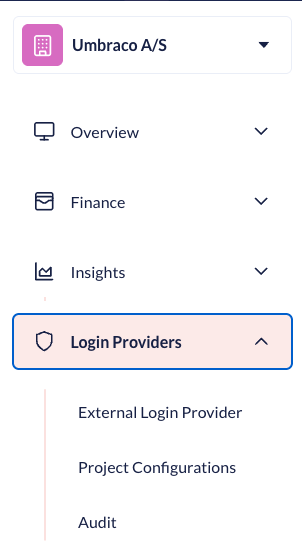
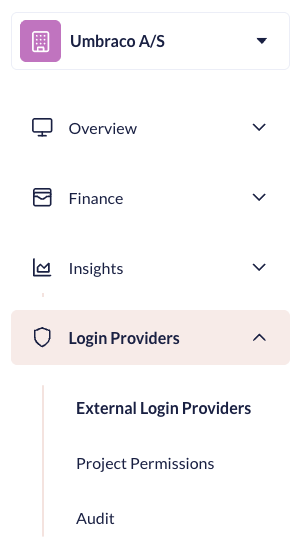
Rename Project Configuration to Project Permissions

diff --git a/umbraco-cloud/begin-your-cloud-journey/the-cloud-portal/login-providers/README.md b/umbraco-cloud/begin-your-cloud-journey/the-cloud-portal/login-providers/README.md
@@ -14,13 +14,12 @@ This is exclusively for Cloud Portal access and access to Project features only 
 ## External Login Providers
 
 {% hint style="info" %}
-The Organization Areas is only available for user logged in with Umbraco Id. Additionally the Login Providers Section can only be accessed by user with Admin rights to the Organization.
+The Organization Areas is only available for user logged in with Umbraco Id. Additionally the Login Providers Section can only be accessed by user who has Admin rights to the Organization.
 {% endhint %}
 
-This guide shows you how to set up and configure external login providers for your Cloud projects. It includes the following steps:
+This guide shows you how to set up and configure external login providers for the Cloud Portal, and configure related Project Permissions. It includes the following steps:
 
 - [Prepare your Login Provider](#prepare-your-login-provider)
-
 - [Register the Login Provider in Cloud Portal](#register-the-login-provider-in-cloud-portal)
 
 ### Prepare your Login Provider
@@ -187,19 +186,19 @@ A common scenario for using a special metadata address is when working with Entr
 
 **User Mapping Claim Name**
 
-Your provider may assign users to specific roles (For example: Admin, Editor, Viewer).<br><br>The <strong>User Group Claim Name</strong> is the field in the authentication token (claim) that identifies these roles. The system reads this claim to determine a user’s permissions.
+Your provider may assign users to specific roles (For example: Admin, Editor, Viewer).<br><br>The <strong>User Mapping Claim Name</strong> is the field in the authentication token (claim) that identifies these roles. The system reads this claim to determine a user’s permissions.
 
-Example: If your provider sends roles in a claim named <code>user_roles</code>, you would set the <strong>User Group Claim Name</strong> to <code>user_roles</code> so the system can properly recognize user permissions.
+Example: If your provider sends roles in a claim named <code>user_roles</code>, you set the <strong>User Mapping Claim Name</strong> to <code>user_roles</code> so the system can properly recognize user permissions.
 
 
 
-## Project Configurations
+## Project Permissions
 
-Here you will setup access to Project in the Portal while signed in with your Login Provider.
+Here you will setup access to Projects in the Portal while signed in with your Login Provider.
 
-You will need to add a Project Configuration per Project and per Login Provider. It is not required to add Project Configurations to all project. Projects without a Project Configuration tied to a Login Provider will not be shown to user logged in with that particular Login Provider.  
+You will need to add a Project Permission model per Project and per Login Provider. It is not required to add Project Permissions to all project. Projects without a Project Permissions tied to a Login Provider will not be shown to user logged in with that particular Login Provider.  
 
-When setting up a Project Configuration first select a Project in the left side of the screen. Next click on "+ Add" on the Login Provider you want to add a Project Configuration for.
+When setting up a Project Permission first select a Project in the left side of the screen. Next click on "+ Add" on the Login Provider you want to add a Project Permissions for.
 
 The modal has the following fields:
 - Default Access Level (required)
@@ -246,5 +245,5 @@ We are listing the following types of audit:
 |---|---|---|
 | User Sign-ins | - | See information about Project Permissions evaluated at the Sign-in. |
 | External Login Providers | Added and Updated | Entries includes the changed properties. The Client Secret is always redacted. |
-| Project Configuration | Added, Updated and Deleted | Shows information on the changed properties and stored Role mapping options |
+| Project Permission | Added, Updated and Deleted | Shows information on the changed properties and stored Role mapping options |
 

diff --git a/umbraco-cloud/begin-your-cloud-journey/the-cloud-portal/organizations.md b/umbraco-cloud/begin-your-cloud-journey/the-cloud-portal/organizations.md
@@ -114,16 +114,17 @@ In the **Payment History** section, you can see the payment history for your org
 
 ### Sustainability
 
+The Sustainability Dashboard is designed to help users monitor and improve the environmental impact of their websites on Umbraco Cloud. For more information, see the [Sustainability Dashboard](../../optimize-and-maintain-your-site/monitor-and-troubleshoot/sustainability-dashboard.md) article.
+
+## Login Providers
+
 {% hint style="info" %}
 This is a Beta feature and currently only open to a few early testers. If you want to help test the feature, get in touch somehow [TODO: describe how]...
 {% endhint %}
 
-The Sustainability Dashboard is designed to help users monitor and improve the environmental impact of their websites on Umbraco Cloud. For more information, see the [Sustainability Dashboard](../../optimize-and-maintain-your-site/monitor-and-troubleshoot/sustainability-dashboard.md) article.
-
-## Login Providers
 <figure><img src="../../.gitbook/assets/org-menu-login-providers.png" alt="Login Providers section"><figcaption><p>Insights section</p></figcaption></figure>
 
-This section will allow you to configure access to the Umbraco Cloud Portal and Projects for your Organizations via the Login Provider(s) you use.
+The **Login Providers** section will allow you to configure access to the Umbraco Cloud Portal and Projects for your Organizations via the Login Provider(s) you use.
 
 To start setting up a Login Provider for your Organization, see the [Login Providers article](login-providers/README.md).
 
@@ -131,7 +132,7 @@ To start setting up a Login Provider for your Organization, see the [Login Provi
 
 This section will allow you to configure access to the Umbraco Cloud Portal for your Organizations. 
 
-### Project Configurations
+### Project Permissions
 
 Use this section to configure Project Permissions in the Portal when users are signing in with an Organization's Login Providers.
 
